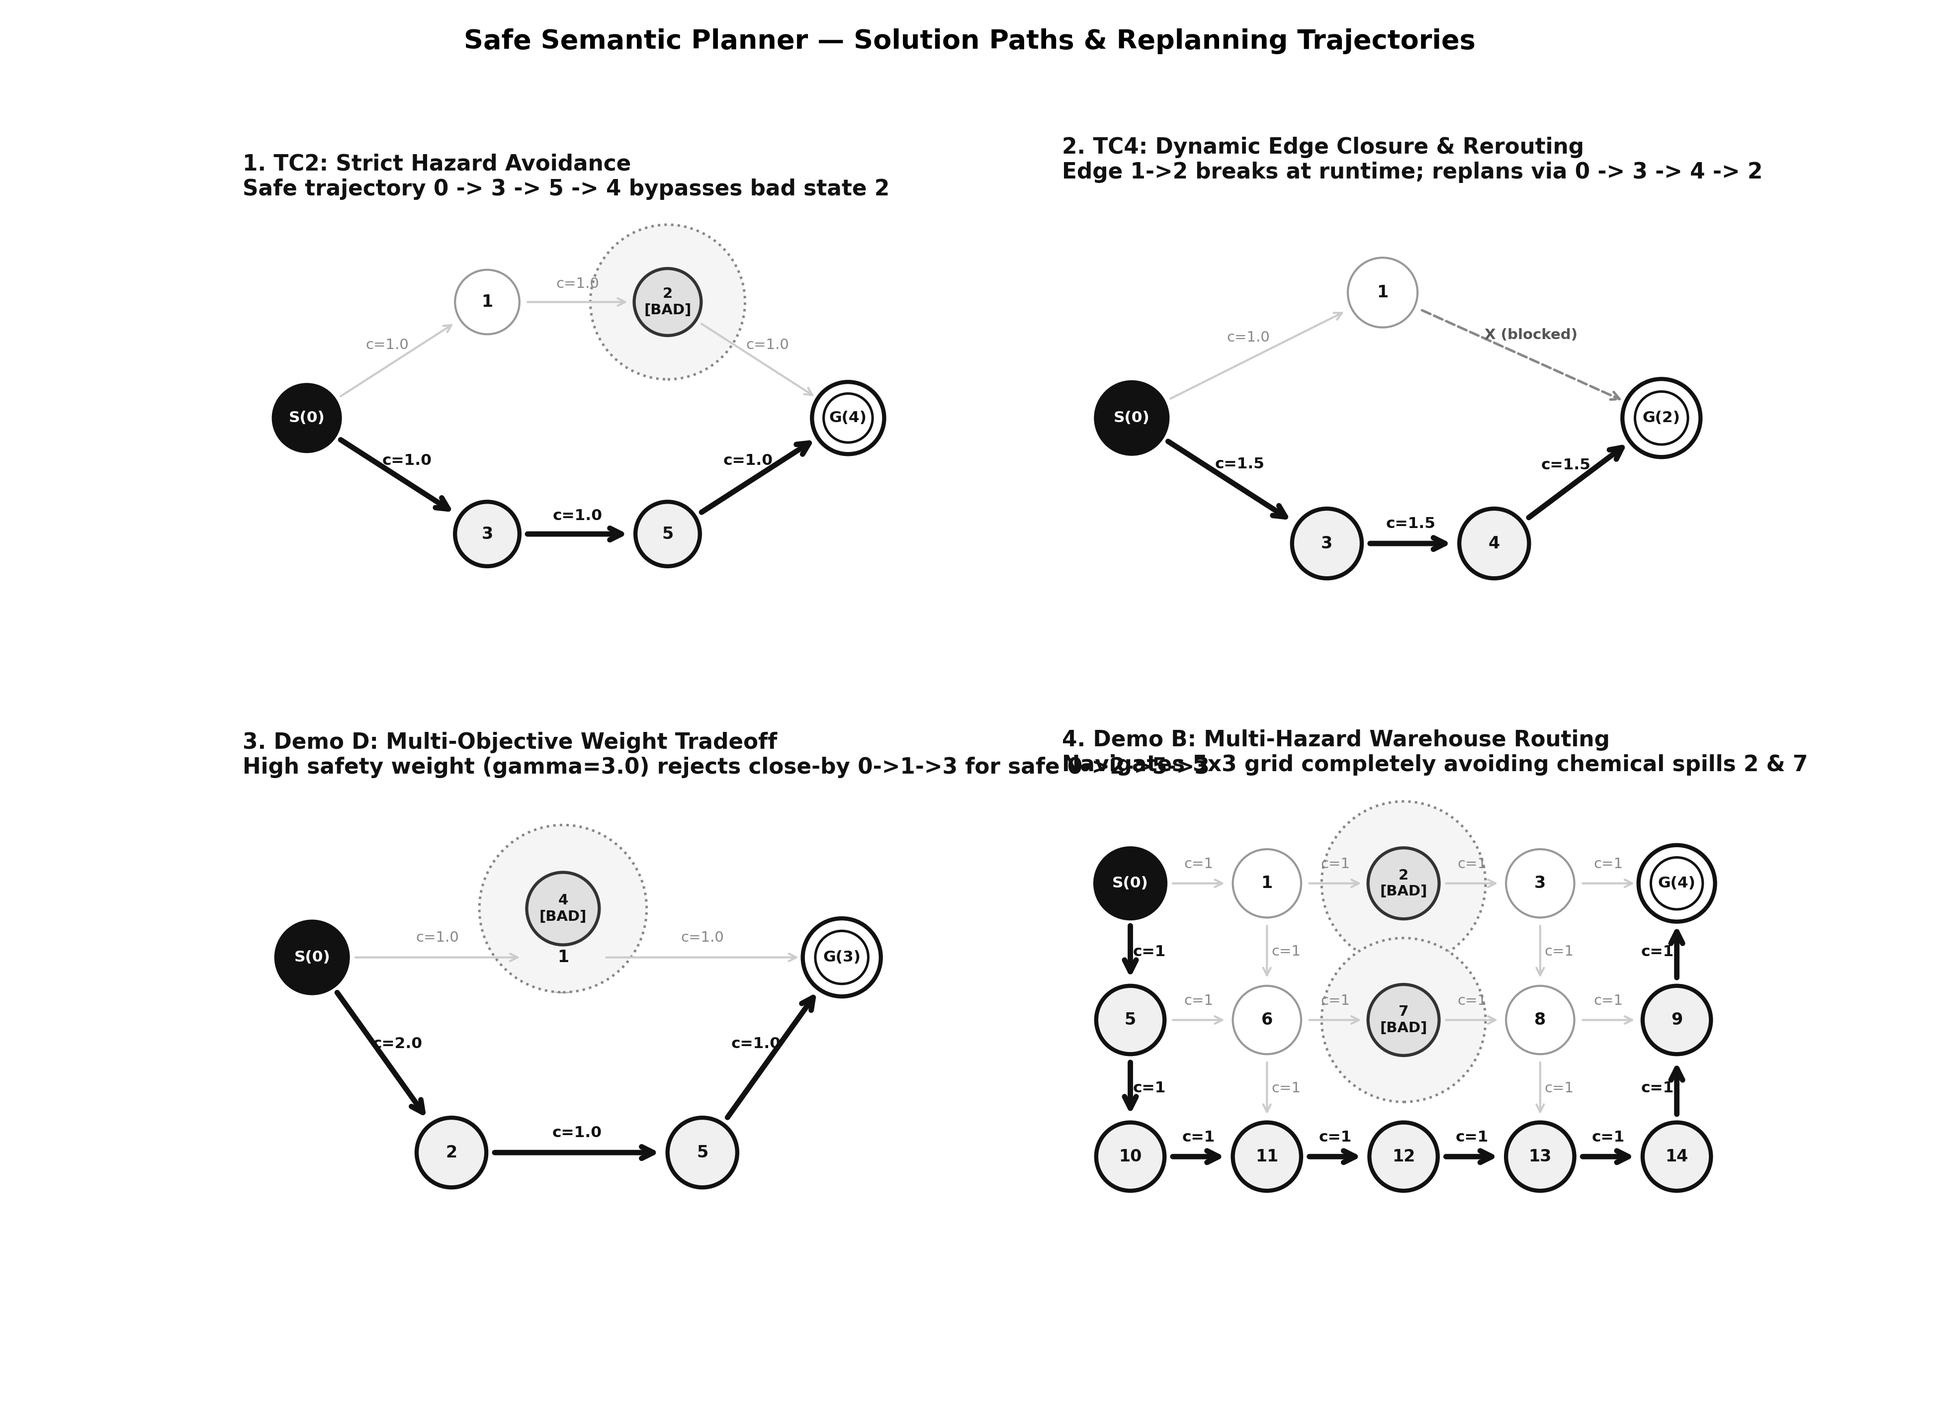
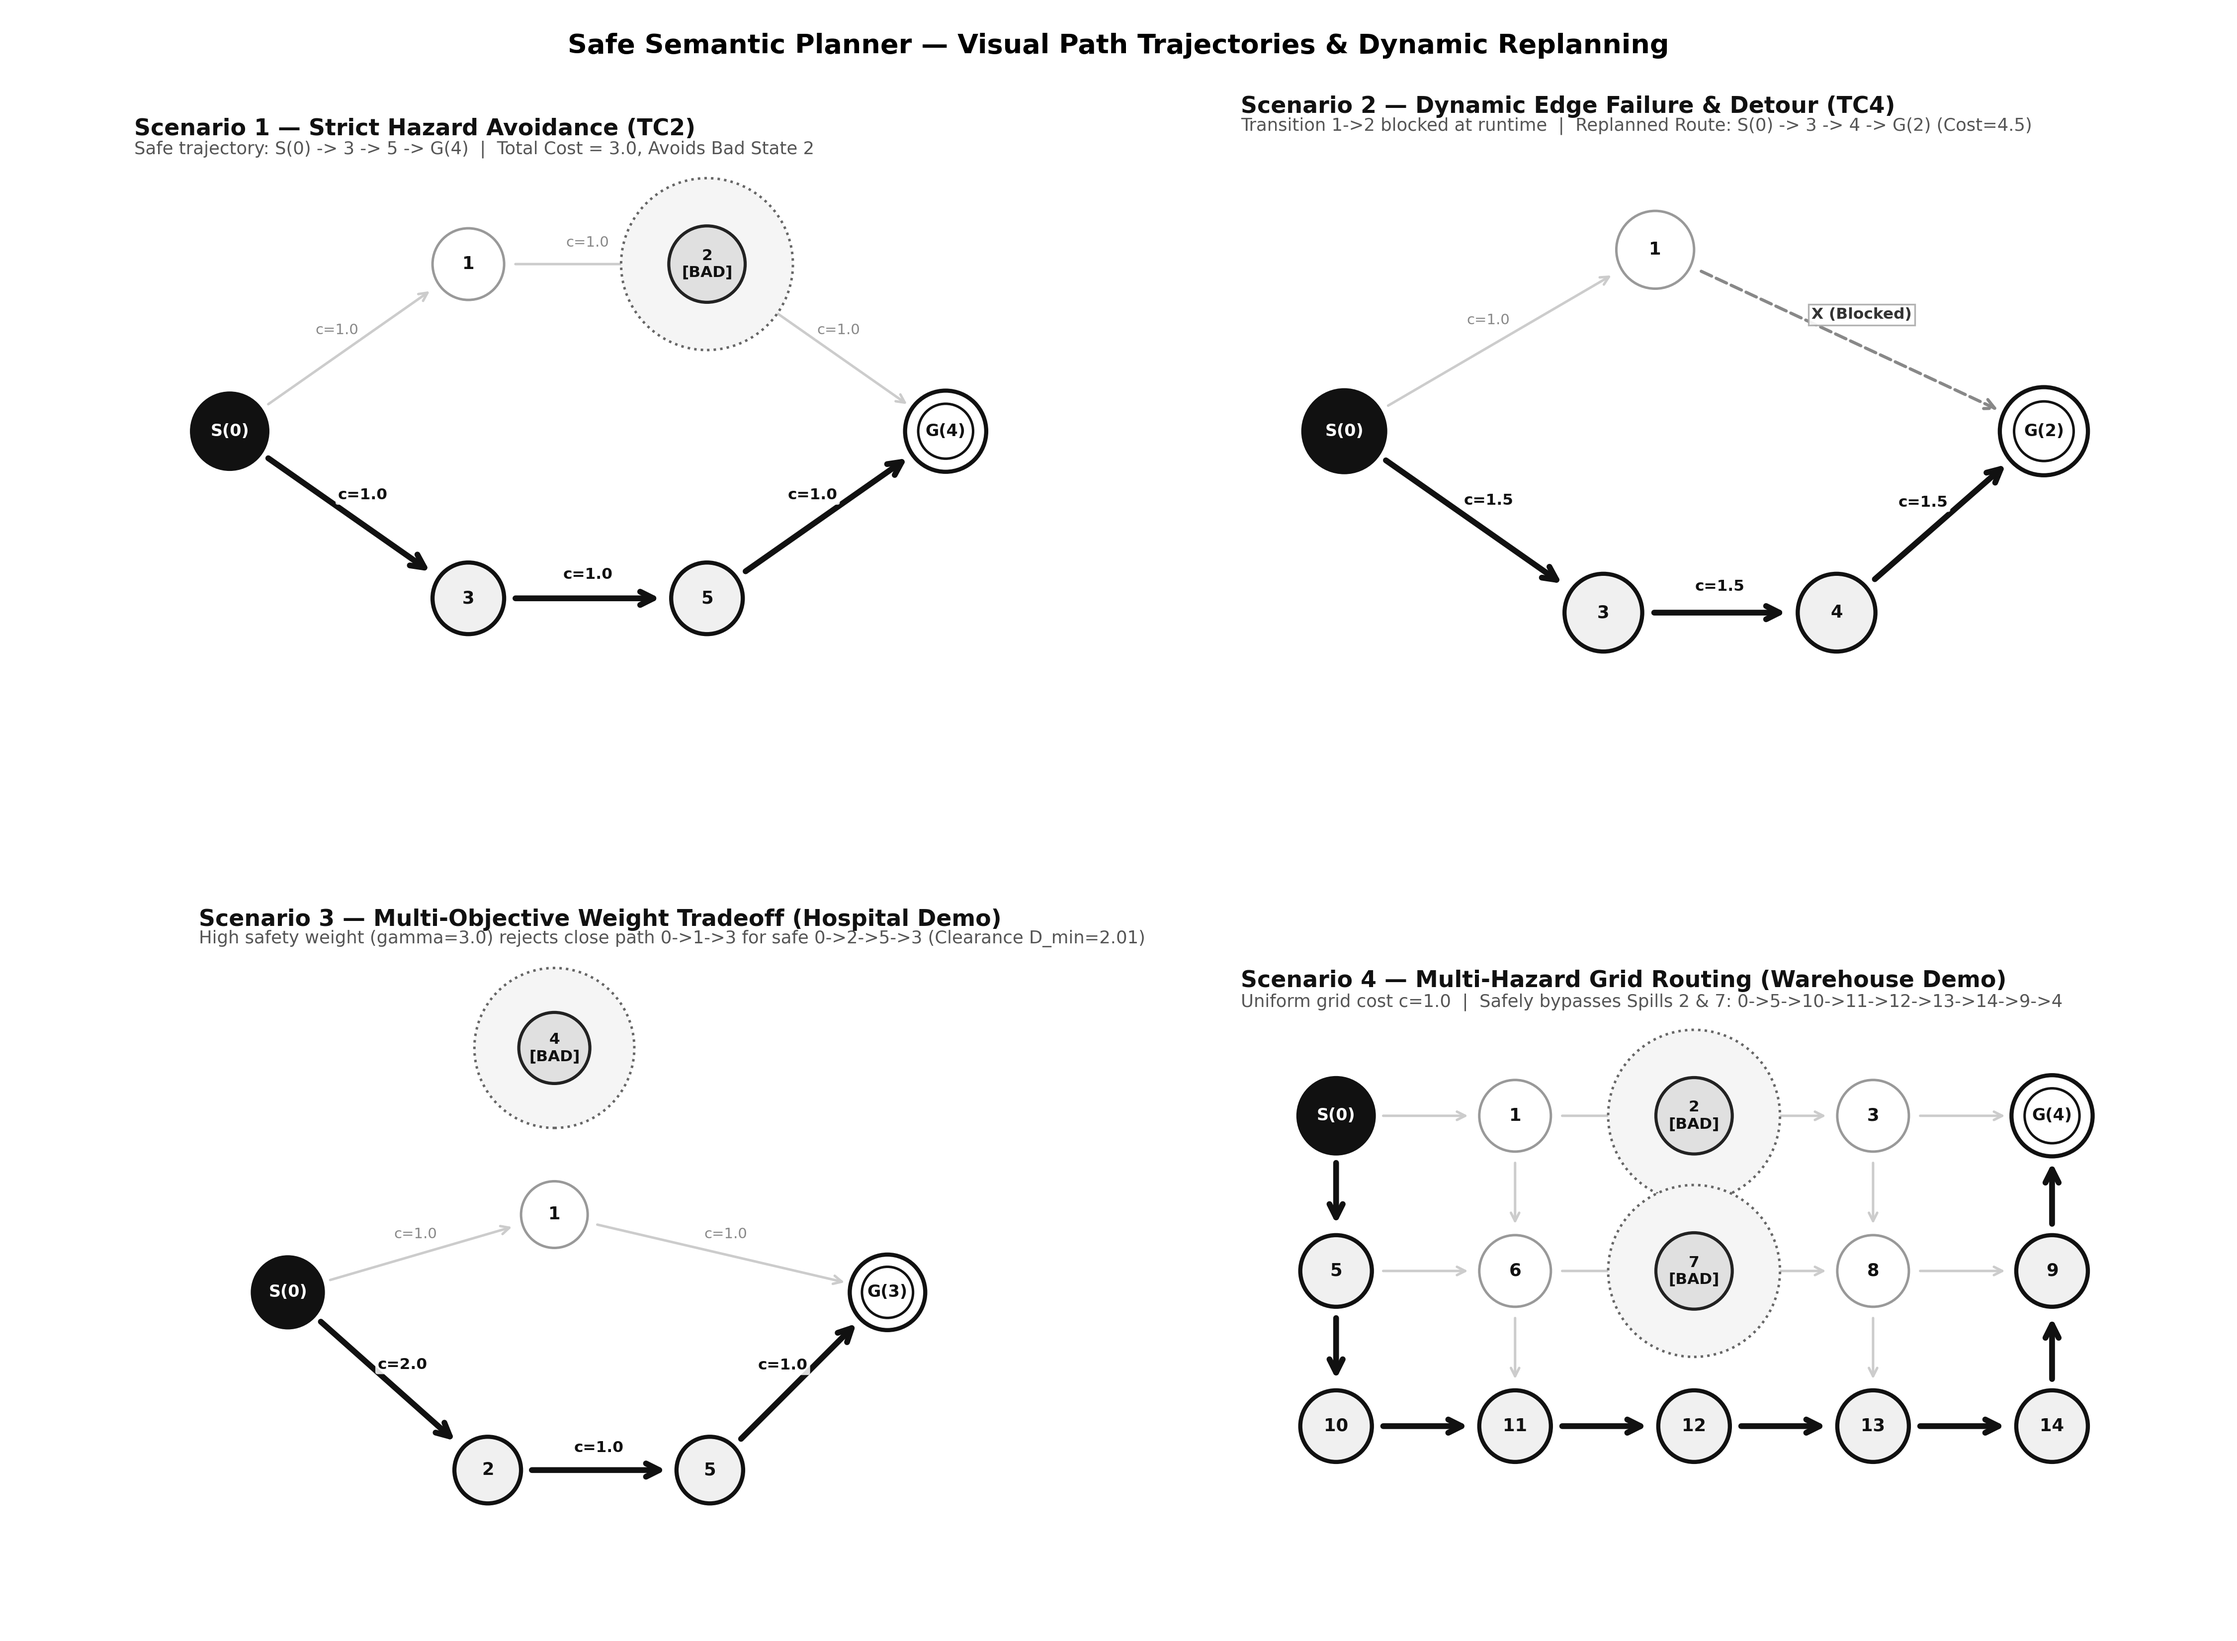
Fix text overlap and improve spacing in planner scenarios diagram

diff --git a/scripts/generate_plots.py b/scripts/generate_plots.py
@@ -124,17 +124,18 @@ ax4.text(0.02, 0.98, card_content, transform=ax4.transAxes, fontsize=8.8,
 
 fig.suptitle('Safe Semantic Planner — Quantitative Experimental Evaluation', fontsize=13, fontweight='bold', y=0.97)
 plt.savefig('docs/images/benchmark_metrics.png', dpi=300, facecolor='#ffffff')
-plt.close()
 print("Saved: docs/images/benchmark_metrics.png")
 
 # ==============================================================================
 # 2. FIGURE: SCENARIO TRAJECTORY PLOTS (planner_scenarios.png)
 # ==============================================================================
-fig, axs = plt.subplots(2, 2, figsize=(13, 9.5), dpi=300)
+fig, axs = plt.subplots(2, 2, figsize=(15, 11), dpi=300)
 fig.patch.set_facecolor('#ffffff')
+plt.subplots_adjust(hspace=0.38, wspace=0.22, left=0.06, right=0.96, top=0.92, bottom=0.05)
 
-def render_scenario(ax, title, subtitle, states, edges, bad_nodes, path_nodes, start_node, goal_node, xlim, ylim):
-    ax.set_title(f"{title}\n{subtitle}", fontsize=10.5, fontweight='bold', pad=8, loc='left', color='#111111')
+def render_scenario(ax, title, subtitle, states, edges, bad_nodes, path_nodes, start_node, goal_node, xlim, ylim, show_all_edge_costs=True):
+    ax.set_title(title, fontsize=11, fontweight='bold', pad=16, loc='left', color='#111111')
+    ax.text(0.0, 1.02, subtitle, transform=ax.transAxes, fontsize=8.5, color='#555555', va='bottom', ha='left')
     ax.set_xlim(xlim)
     ax.set_ylim(ylim)
     ax.set_aspect('equal')
@@ -144,13 +145,13 @@ def render_scenario(ax, title, subtitle, states, edges, bad_nodes, path_nodes, s
     
     # 1. Draw Edges
     for u, v, cost_val, is_avail in edges:
-        p1 = np.array(states[u])
-        p2 = np.array(states[v])
+        p1 = np.array(states[u], dtype=float)
+        p2 = np.array(states[v], dtype=float)
         v_diff = p2 - p1
         dist = np.linalg.norm(v_diff)
         if dist < 1e-6: continue
         u_dir = v_diff / dist
-        r = 0.28
+        r = 0.36
         p_start = p1 + u_dir * r
         p_end = p2 - u_dir * r
         
@@ -158,89 +159,97 @@ def render_scenario(ax, title, subtitle, states, edges, bad_nodes, path_nodes, s
         
         if not is_avail:
             ax.annotate('', xy=p_end, xytext=p_start,
-                        arrowprops=dict(arrowstyle='->', color='#888888', lw=1.2, linestyle='--', mutation_scale=10))
-            mid = (p1 + p2) / 2 + np.array([-u_dir[1], u_dir[0]]) * 0.16
-            ax.text(mid[0], mid[1], 'X (blocked)', color='#555555', fontsize=7, fontweight='bold', ha='center', va='center')
+                        arrowprops=dict(arrowstyle='->', color='#888888', lw=1.5, linestyle='--', mutation_scale=12))
+            mid = (p1 + p2) / 2 + np.array([-u_dir[1], u_dir[0]]) * 0.22
+            ax.text(mid[0], mid[1], 'X (Blocked)', color='#333333', fontsize=7.5, fontweight='bold', ha='center', va='center',
+                    bbox=dict(boxstyle='square,pad=0.2', facecolor='#ffffff', edgecolor='#aaaaaa', lw=0.8, alpha=0.9))
         elif is_in_path:
             ax.annotate('', xy=p_end, xytext=p_start,
-                        arrowprops=dict(arrowstyle='->', color='#111111', lw=2.6, mutation_scale=14))
-            mid = (p1 + p2) / 2 + np.array([-u_dir[1], u_dir[0]]) * 0.14
-            ax.text(mid[0], mid[1], f'c={cost_val}', color='#111111', fontsize=7.5, fontweight='bold', ha='center', va='center')
+                        arrowprops=dict(arrowstyle='->', color='#111111', lw=2.8, mutation_scale=16))
+            if show_all_edge_costs:
+                mid = (p1 + p2) / 2 + np.array([-u_dir[1], u_dir[0]]) * 0.20
+                ax.text(mid[0], mid[1], f'c={cost_val}', color='#111111', fontsize=7.5, fontweight='bold', ha='center', va='center',
+                        bbox=dict(boxstyle='round,pad=0.15', facecolor='#ffffff', edgecolor='none', alpha=0.85))
         else:
             ax.annotate('', xy=p_end, xytext=p_start,
-                        arrowprops=dict(arrowstyle='->', color='#cccccc', lw=1.0, mutation_scale=9))
-            mid = (p1 + p2) / 2 + np.array([-u_dir[1], u_dir[0]]) * 0.14
-            ax.text(mid[0], mid[1], f'c={cost_val}', color='#888888', fontsize=7, ha='center', va='center')
+                        arrowprops=dict(arrowstyle='->', color='#cccccc', lw=1.2, mutation_scale=10))
+            if show_all_edge_costs:
+                mid = (p1 + p2) / 2 + np.array([-u_dir[1], u_dir[0]]) * 0.18
+                ax.text(mid[0], mid[1], f'c={cost_val}', color='#888888', fontsize=7, ha='center', va='center',
+                        bbox=dict(boxstyle='round,pad=0.15', facecolor='#ffffff', edgecolor='none', alpha=0.85))
 
     # 2. Draw Nodes
     for sid, pos in states.items():
-        pos = np.array(pos)
+        pos = np.array(pos, dtype=float)
         is_bad = sid in bad_nodes
         is_start = (sid == start_node)
         is_goal = (sid == goal_node)
         is_path = sid in path_nodes
         
         if is_bad:
-            # Danger radius
-            zone = patches.Circle(pos, 0.6, facecolor='#f5f5f5', edgecolor='#888888', linestyle=':', linewidth=1.2)
+            zone = patches.Circle(pos, 0.72, facecolor='#f5f5f5', edgecolor='#666666', linestyle=':', linewidth=1.2, zorder=3)
             ax.add_patch(zone)
-            node = patches.Circle(pos, 0.26, facecolor='#e0e0e0', edgecolor='#333333', linewidth=1.5)
+            node = patches.Circle(pos, 0.32, facecolor='#e0e0e0', edgecolor='#222222', linewidth=1.5, zorder=4)
             ax.add_patch(node)
-            ax.text(pos[0], pos[1], f'{sid}\n[BAD]', ha='center', va='center', fontsize=7, fontweight='bold', color='#111111')
+            ax.text(pos[0], pos[1], f'{sid}\n[BAD]', ha='center', va='center', fontsize=7.5, fontweight='bold', color='#111111', zorder=5)
         elif is_start:
-            node = patches.Circle(pos, 0.26, facecolor='#111111', edgecolor='#111111', linewidth=1.5)
+            node = patches.Circle(pos, 0.32, facecolor='#111111', edgecolor='#111111', linewidth=1.5, zorder=4)
             ax.add_patch(node)
-            ax.text(pos[0], pos[1], f'S({sid})', ha='center', va='center', fontsize=7.5, fontweight='bold', color='#ffffff')
+            ax.text(pos[0], pos[1], f'S({sid})', ha='center', va='center', fontsize=8, fontweight='bold', color='#ffffff', zorder=5)
         elif is_goal:
-            node_outer = patches.Circle(pos, 0.28, facecolor='#ffffff', edgecolor='#111111', linewidth=2.0)
-            node_inner = patches.Circle(pos, 0.19, facecolor='#ffffff', edgecolor='#111111', linewidth=1.2)
+            node_outer = patches.Circle(pos, 0.34, facecolor='#ffffff', edgecolor='#111111', linewidth=2.0, zorder=4)
+            node_inner = patches.Circle(pos, 0.23, facecolor='#ffffff', edgecolor='#111111', linewidth=1.2, zorder=5)
             ax.add_patch(node_outer)
             ax.add_patch(node_inner)
-            ax.text(pos[0], pos[1], f'G({sid})', ha='center', va='center', fontsize=7.5, fontweight='bold', color='#111111')
+            ax.text(pos[0], pos[1], f'G({sid})', ha='center', va='center', fontsize=8, fontweight='bold', color='#111111', zorder=6)
         else:
             fc = '#ffffff' if not is_path else '#f0f0f0'
             ec = '#111111' if is_path else '#999999'
-            lw = 2.0 if is_path else 1.0
-            node = patches.Circle(pos, 0.25, facecolor=fc, edgecolor=ec, linewidth=lw)
+            lw = 2.0 if is_path else 1.2
+            node = patches.Circle(pos, 0.30, facecolor=fc, edgecolor=ec, linewidth=lw, zorder=4)
             ax.add_patch(node)
-            ax.text(pos[0], pos[1], f'{sid}', ha='center', va='center', fontsize=8, fontweight='bold', color='#111111')
+            ax.text(pos[0], pos[1], f'{sid}', ha='center', va='center', fontsize=8.5, fontweight='bold', color='#111111', zorder=5)
 
-# Panel 1: TC2 Bad State Avoidance
-st_tc2 = {0: (0.0, 0.0), 1: (1.4, 0.9), 2: (2.8, 0.9), 3: (1.4, -0.9), 5: (2.8, -0.9), 4: (4.2, 0.0)}
+# Panel 1: TC2 Bad State Avoidance (Widely Spaced)
+st_tc2 = {0: (0.0, 0.0), 1: (2.0, 1.4), 2: (4.0, 1.4), 3: (2.0, -1.4), 5: (4.0, -1.4), 4: (6.0, 0.0)}
 ed_tc2 = [(0,1,1.0,True), (1,2,1.0,True), (2,4,1.0,True), (0,3,1.0,True), (3,5,1.0,True), (5,4,1.0,True)]
-render_scenario(axs[0, 0], "1. TC2: Strict Hazard Avoidance", "Safe trajectory 0 -> 3 -> 5 -> 4 bypasses bad state 2",
-                st_tc2, ed_tc2, [2], [0, 3, 5, 4], 0, 4, (-0.5, 4.8), (-1.6, 1.6))
+render_scenario(axs[0, 0], "Scenario 1 — Strict Hazard Avoidance (TC2)",
+                "Safe trajectory: S(0) -> 3 -> 5 -> G(4)  |  Total Cost = 3.0, Avoids Bad State 2",
+                st_tc2, ed_tc2, [2], [0, 3, 5, 4], 0, 4, (-0.8, 6.8), (-2.2, 2.2))
 
-# Panel 2: TC4 Dynamic Edge Replanning
-st_tc4 = {0: (0.0, 0.0), 1: (1.8, 0.9), 2: (3.8, 0.0), 3: (1.4, -0.9), 4: (2.6, -0.9)}
+# Panel 2: TC4 Dynamic Edge Replanning (Widely Spaced)
+st_tc4 = {0: (0.0, 0.0), 1: (2.4, 1.4), 2: (5.4, 0.0), 3: (2.0, -1.4), 4: (3.8, -1.4)}
 ed_tc4 = [(0,1,1.0,True), (1,2,1.0,False), (0,3,1.5,True), (3,4,1.5,True), (4,2,1.5,True)]
-render_scenario(axs[0, 1], "2. TC4: Dynamic Edge Closure & Rerouting", "Edge 1->2 breaks at runtime; replans via 0 -> 3 -> 4 -> 2",
-                st_tc4, ed_tc4, [], [0, 3, 4, 2], 0, 2, (-0.5, 4.4), (-1.6, 1.6))
+render_scenario(axs[0, 1], "Scenario 2 — Dynamic Edge Failure & Detour (TC4)",
+                "Transition 1->2 blocked at runtime  |  Replanned Route: S(0) -> 3 -> 4 -> G(2) (Cost=4.5)",
+                st_tc4, ed_tc4, [], [0, 3, 4, 2], 0, 2, (-0.8, 6.2), (-2.2, 2.2))
 
 # Panel 3: Hospital Weights Tradeoff (Demo D)
-st_hosp = {0: (0.0, 0.0), 1: (1.8, 0.0), 4: (1.8, 0.35), 3: (3.8, 0.0), 2: (1.0, -1.4), 5: (2.8, -1.4)}
+st_hosp = {0: (0.0, 0.0), 1: (2.4, 0.7), 4: (2.4, 2.2), 3: (5.4, 0.0), 2: (1.8, -1.6), 5: (3.8, -1.6)}
 ed_hosp = [(0,1,1.0,True), (1,3,1.0,True), (0,2,2.0,True), (2,5,1.0,True), (5,3,1.0,True)]
-render_scenario(axs[1, 0], "3. Demo D: Multi-Objective Weight Tradeoff", "High safety weight (gamma=3.0) rejects close-by 0->1->3 for safe 0->2->5->3",
-                st_hosp, ed_hosp, [4], [0, 2, 5, 3], 0, 3, (-0.5, 4.4), (-2.0, 1.2))
+render_scenario(axs[1, 0], "Scenario 3 — Multi-Objective Weight Tradeoff (Hospital Demo)",
+                "High safety weight (gamma=3.0) rejects close path 0->1->3 for safe 0->2->5->3 (Clearance D_min=2.01)",
+                st_hosp, ed_hosp, [4], [0, 2, 5, 3], 0, 3, (-0.8, 6.2), (-2.4, 3.0))
 
 # Panel 4: Warehouse Grid Multi-Hazard Navigation (Demo B)
 st_w = {
-    0: (0, 2), 1: (1, 2), 2: (2, 2), 3: (3, 2), 4: (4, 2),
-    5: (0, 1), 6: (1, 1), 7: (2, 1), 8: (3, 1), 9: (4, 1),
-    10: (0, 0), 11: (1, 0), 12: (2, 0), 13: (3, 0), 14: (4, 0)
+    0: (0.0, 2.6), 1: (1.5, 2.6), 2: (3.0, 2.6), 3: (4.5, 2.6), 4: (6.0, 2.6),
+    5: (0.0, 1.3), 6: (1.5, 1.3), 7: (3.0, 1.3), 8: (4.5, 1.3), 9: (6.0, 1.3),
+    10: (0.0, 0.0), 11: (1.5, 0.0), 12: (3.0, 0.0), 13: (4.5, 0.0), 14: (6.0, 0.0)
 }
 ed_w = [
-    (0,1,1,True), (1,2,1,True), (2,3,1,True), (3,4,1,True),
-    (0,5,1,True), (5,10,1,True), (10,11,1,True), (11,12,1,True),
-    (12,13,1,True), (13,14,1,True), (14,9,1,True), (9,4,1,True),
-    (5,6,1,True), (6,7,1,True), (7,8,1,True), (8,9,1,True),
-    (1,6,1,True), (6,11,1,True), (3,8,1,True), (8,13,1,True)
+    (0,1,1.0,True), (1,2,1.0,True), (2,3,1.0,True), (3,4,1.0,True),
+    (0,5,1.0,True), (5,10,1.0,True), (10,11,1.0,True), (11,12,1.0,True),
+    (12,13,1.0,True), (13,14,1.0,True), (14,9,1.0,True), (9,4,1.0,True),
+    (5,6,1.0,True), (6,7,1.0,True), (7,8,1.0,True), (8,9,1.0,True),
+    (1,6,1.0,True), (6,11,1.0,True), (3,8,1.0,True), (8,13,1.0,True)
 ]
 p_w = [0, 5, 10, 11, 12, 13, 14, 9, 4]
-render_scenario(axs[1, 1], "4. Demo B: Multi-Hazard Warehouse Routing", "Navigates 5x3 grid completely avoiding chemical spills 2 & 7",
-                st_w, ed_w, [2, 7], p_w, 0, 4, (-0.5, 4.5), (-0.6, 2.7))
+render_scenario(axs[1, 1], "Scenario 4 — Multi-Hazard Grid Routing (Warehouse Demo)",
+                "Uniform grid cost c=1.0  |  Safely bypasses Spills 2 & 7: 0->5->10->11->12->13->14->9->4",
+                st_w, ed_w, [2, 7], p_w, 0, 4, (-0.8, 6.8), (-0.6, 3.4), show_all_edge_costs=False)
 
-fig.suptitle('Safe Semantic Planner — Solution Paths & Replanning Trajectories', fontsize=13, fontweight='bold', y=0.98)
+fig.suptitle('Safe Semantic Planner — Visual Path Trajectories & Dynamic Replanning', fontsize=13, fontweight='bold', y=0.98)
 plt.savefig('docs/images/planner_scenarios.png', dpi=300, facecolor='#ffffff')
 plt.close()
 print("Saved: docs/images/planner_scenarios.png")
